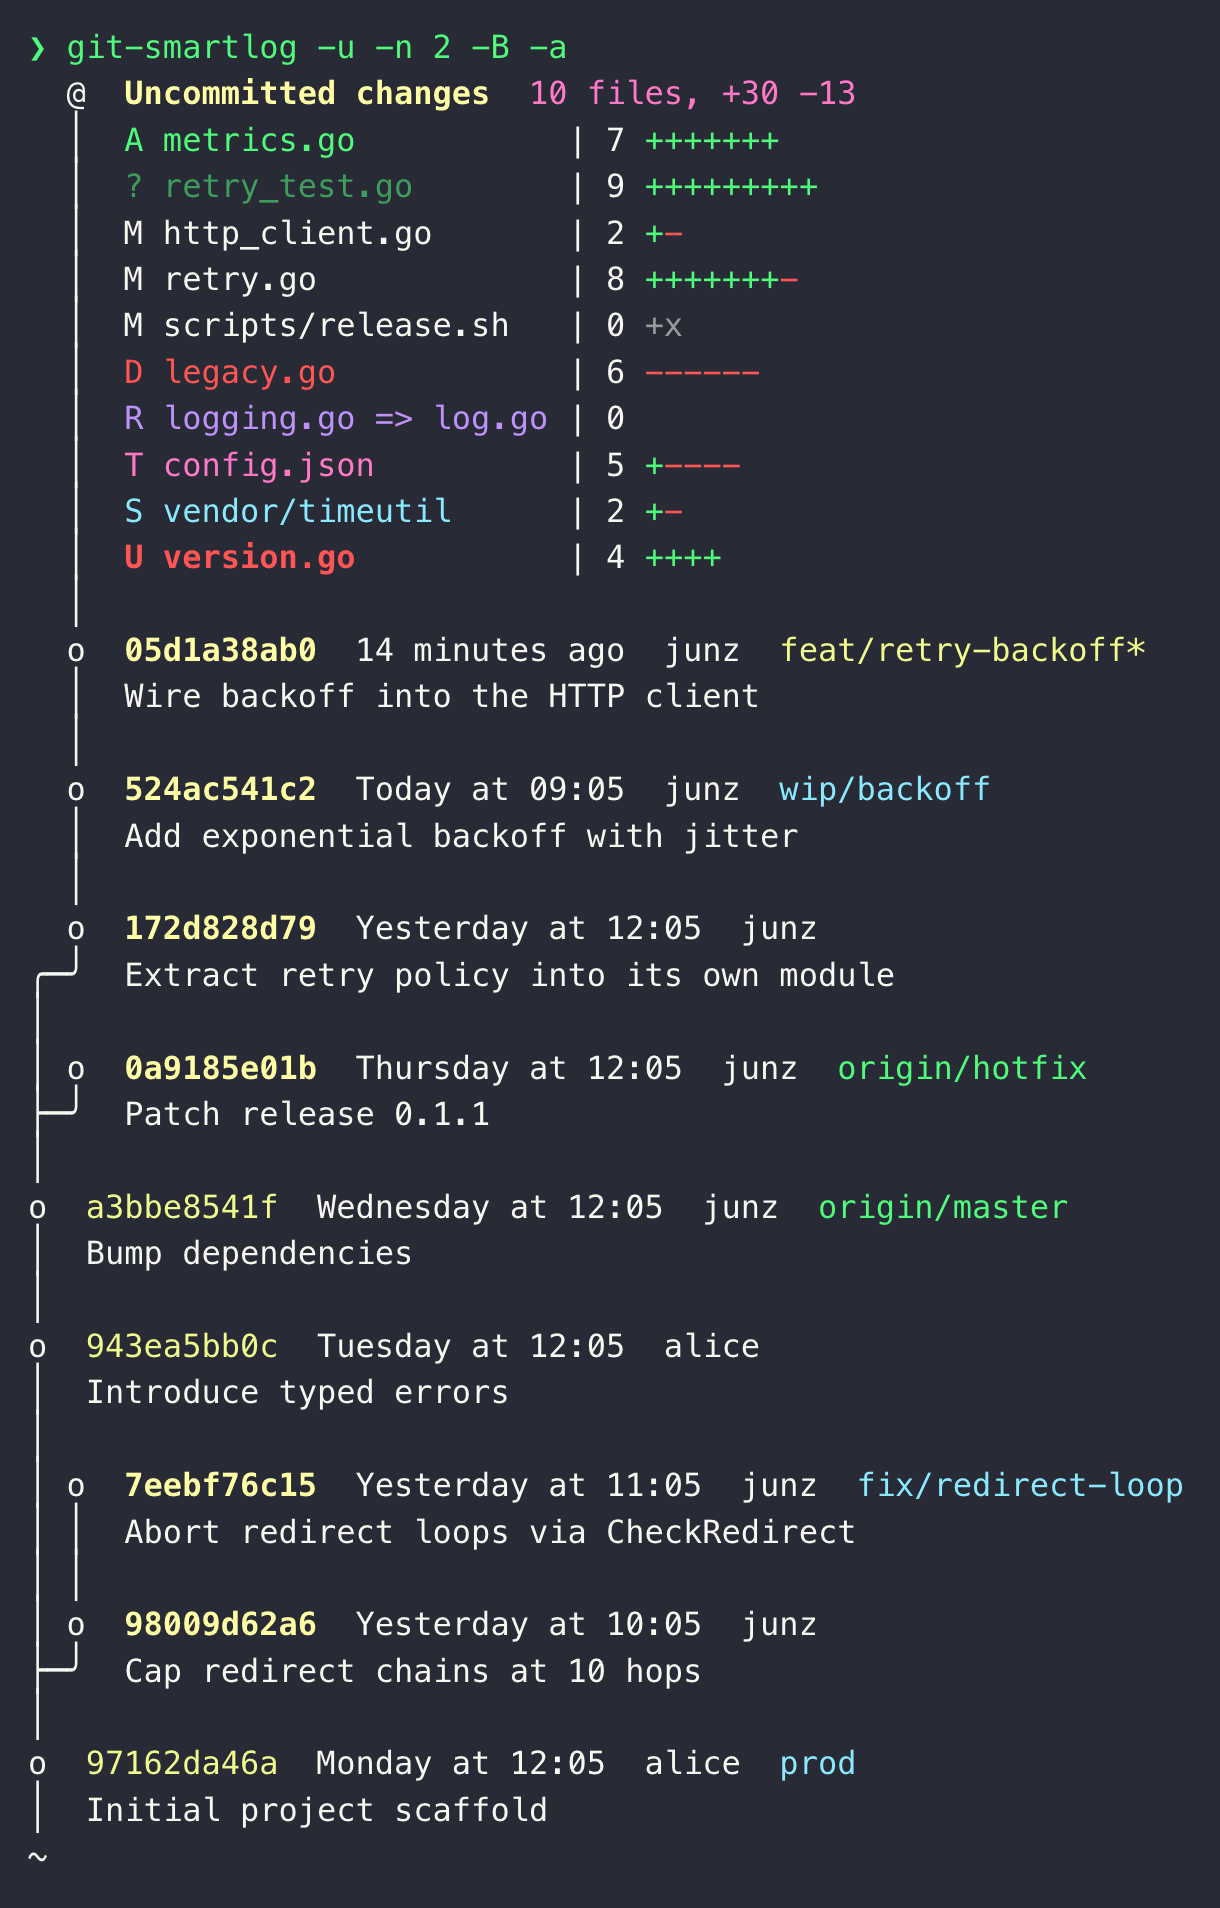
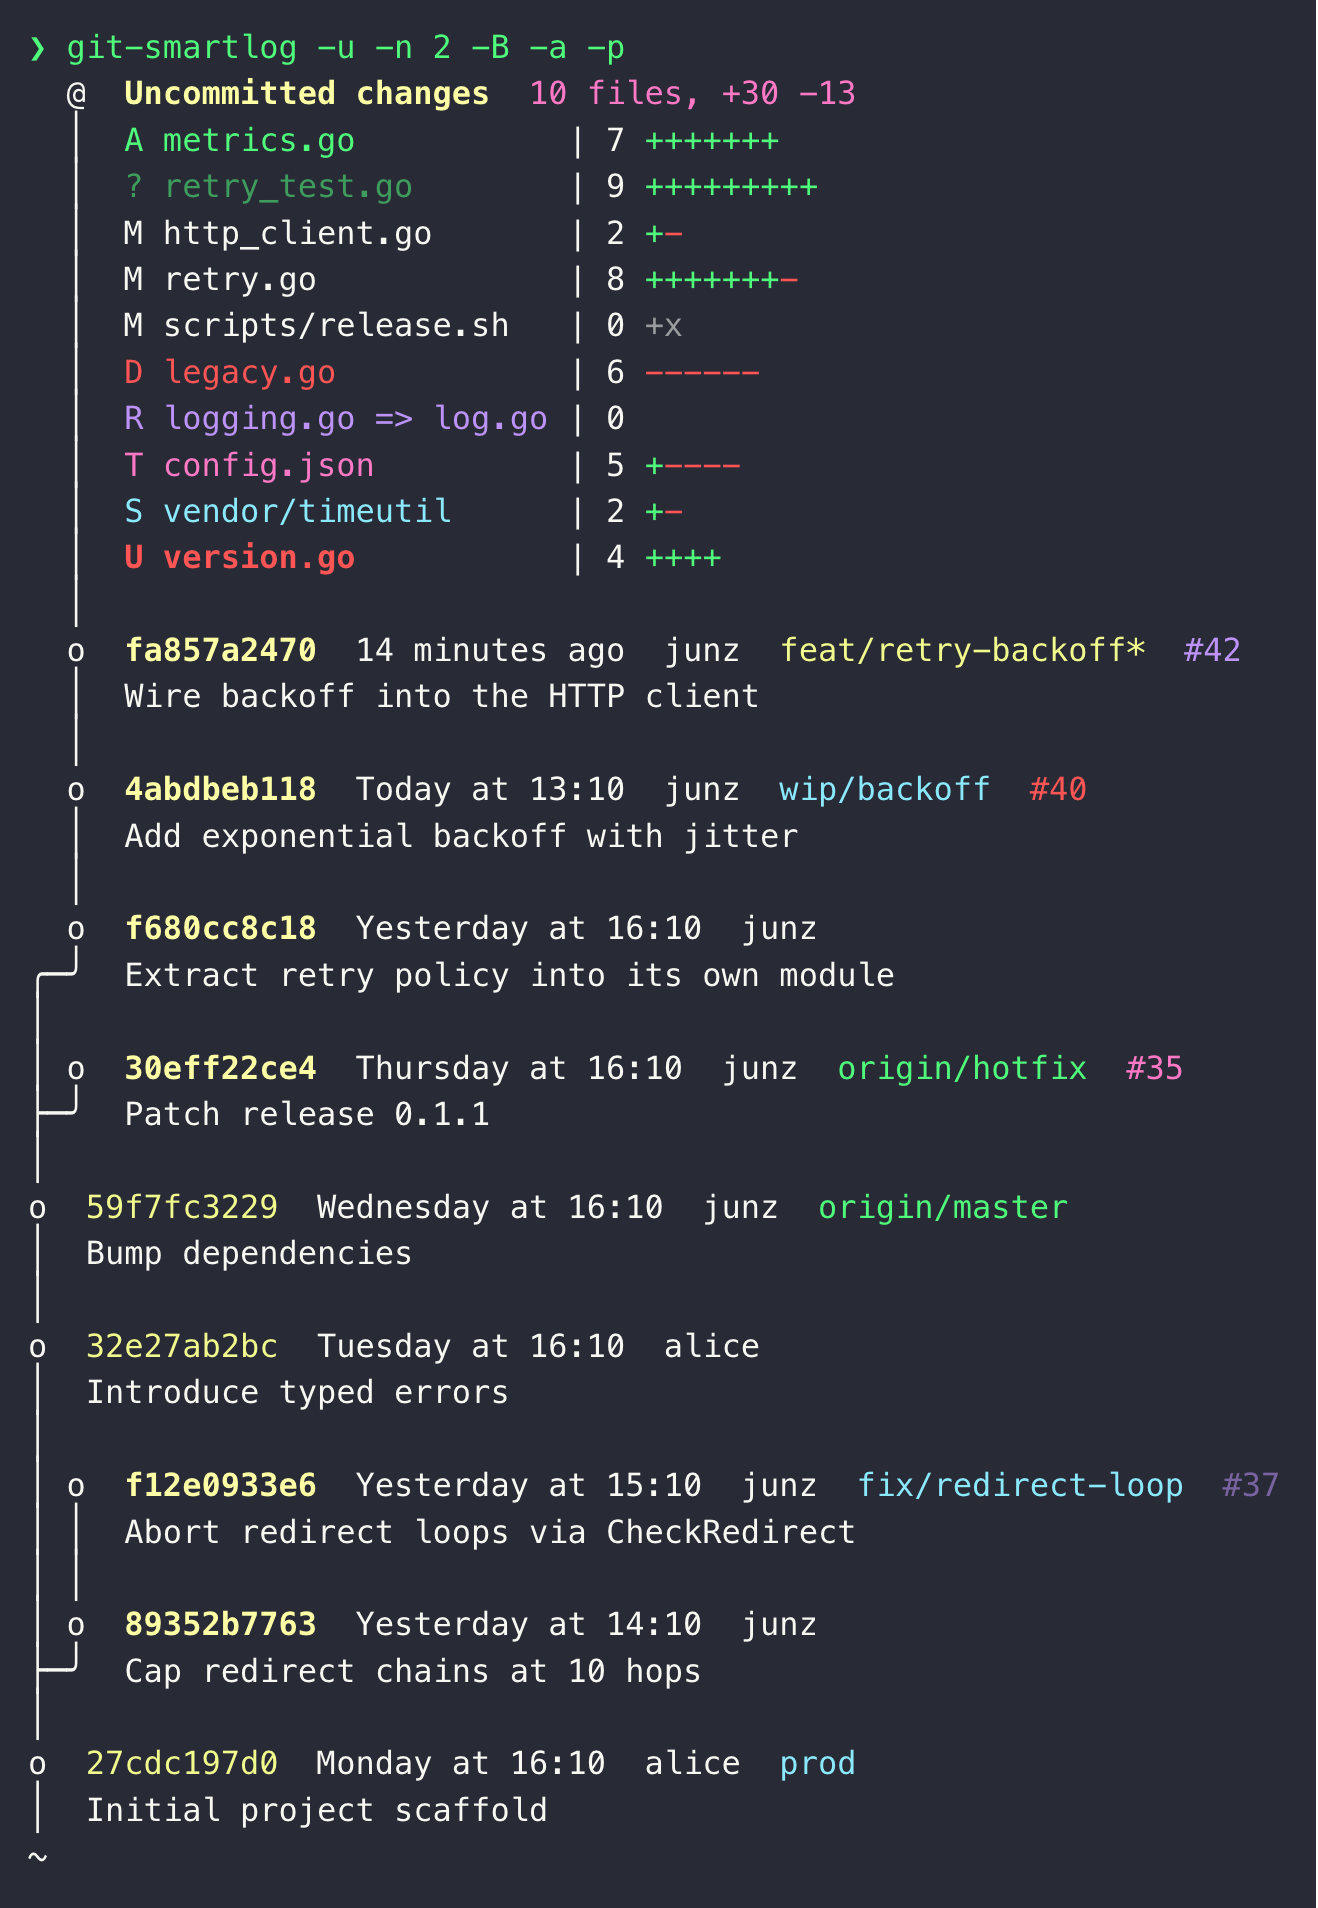
docs(screenshots): fold -p into the cover shot, drop prs.png
The cover image now runs with -p, showing PR tags in all four states in
one capture, so the separate prs.png is redundant.

Claude-Session: https://claude.ai/code/session_017kt1zBZRFStXG9iGzCFaDX

diff --git a/README.md b/README.md
@@ -16,7 +16,7 @@ The story behind it is in
 [this post](https://junz.info/writing/git-smartlog/).
 
 <p align="center">
-  <img src="screenshots/cover.png" alt="git-smartlog -u -n 2 -B -a output" width="600">
+  <img src="screenshots/cover.png" alt="git-smartlog -u -n 2 -B -a -p output" width="600">
 </p>
 
 ## Example
@@ -225,11 +225,8 @@ branch name shown on a commit that has a GitHub PR gets a trailing `#N` tag —
 blue for open, dim blue for draft, magenta for merged, red for closed — and,
 on a TTY, an OSC 8 hyperlink to the PR. The flag is sticky per repo: once
 passed, later runs keep tagging without it until `-P` / `--no-prs` turns it
-off. Here it is on the `-b` view of the same repo:
-
-<p align="center">
-  <img src="screenshots/prs.png" alt="git-smartlog -b -p output with PR number tags colored by state" width="700">
-</p>
+off. The cover image up top shows the tags in all four states on the `-B`
+view.
 
 `-B` / `--branches-full` goes all the way: every other local branch renders its
 **complete stack** instead of a single `(+N)` node, matching what Sapling itself
@@ -238,7 +235,8 @@ commit** shows as a real fork, and commits **stacked above `HEAD`** — a branch
 containing `HEAD` while you're checked out mid-stack — appear too, with `@` drawn
 mid-tree. On the same repo as above — `origin/hotfix` and `fix/redirect-loop`
 now show their complete stacks, and with `-a` the public commits by other authors
-get their full headers too. This is the cover image up top:
+get their full headers too. This — plus `-p`'s PR tags — is the cover image up
+top:
 
 ```text
 $ git smartlog -u -n 2 -B -a
